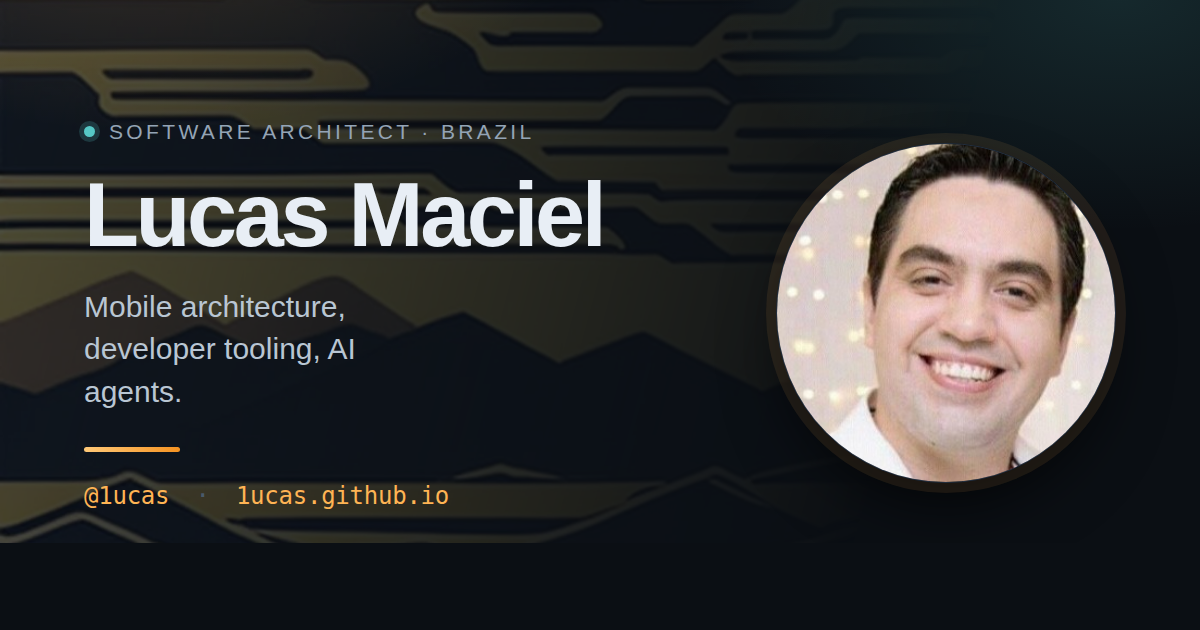
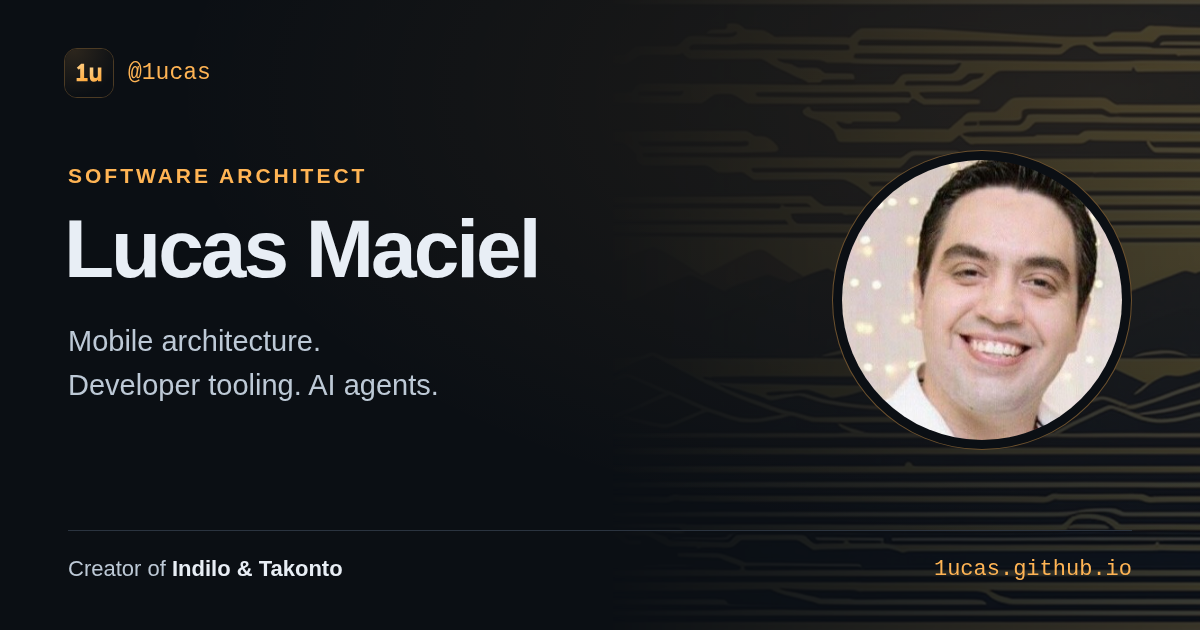
Improve share previews and iPhone Home Screen identity

diff --git a/index.html b/index.html
@@ -6,23 +6,73 @@
   <meta name="viewport" content="width=device-width, initial-scale=1">
   <title>Lucas Maciel — Software Architect</title>
   <meta name="description"
-    content="Lucas Maciel (@1ucas) — Software Architect at Mobile West and creator of Indilo, available on the App Store, and Takonto, coming soon. Mobile architecture, developer tooling, and AI agents.">
+    content="Software Architect at Mobile West. Creator of Indilo and Takonto. Explore Lucas Maciel's work in mobile architecture, developer tooling, and AI agents.">
   <meta name="author" content="Lucas Maciel">
+  <meta name="application-name" content="Lucas Maciel">
+  <meta name="color-scheme" content="dark light">
   <meta name="theme-color" content="#0b0f14">
 
   <link rel="canonical" href="https://1ucas.github.io/">
-  <link rel="icon" href="assets/favicon.svg" type="image/svg+xml">
-  <link rel="apple-touch-icon" href="assets/avatar.png">
+  <link rel="icon" href="/favicon.ico" sizes="16x16 32x32 48x48">
+  <link rel="icon" href="/assets/favicon.svg?v=2" type="image/svg+xml">
+  <link rel="apple-touch-icon" sizes="180x180" href="/apple-touch-icon.png">
+  <link rel="manifest" href="/site.webmanifest">
+
+  <meta name="apple-mobile-web-app-title" content="Lucas Maciel">
+  <meta name="apple-mobile-web-app-capable" content="yes">
+  <meta name="apple-mobile-web-app-status-bar-style" content="default">
+  <meta name="mobile-web-app-capable" content="yes">
 
   <meta property="og:type" content="profile">
+  <meta property="og:site_name" content="Lucas Maciel">
+  <meta property="og:locale" content="en_US">
   <meta property="og:title" content="Lucas Maciel — Software Architect">
   <meta property="og:description"
-    content="Creator of Indilo, available on the App Store, and Takonto, coming soon. Mobile architecture, developer tooling, and AI agents.">
+    content="Software Architect at Mobile West. Creator of Indilo and Takonto. Mobile architecture, developer tooling, and AI agents.">
   <meta property="og:url" content="https://1ucas.github.io/">
-  <meta property="og:image" content="https://1ucas.github.io/assets/og.png">
+  <meta property="og:image" content="https://1ucas.github.io/assets/og.png?v=2">
+  <meta property="og:image:type" content="image/png">
   <meta property="og:image:width" content="1200">
   <meta property="og:image:height" content="630">
+  <meta property="og:image:alt" content="Lucas Maciel, Software Architect. Mobile architecture, developer tooling, and AI agents. Creator of Indilo and Takonto.">
+  <meta property="profile:first_name" content="Lucas">
+  <meta property="profile:last_name" content="Maciel">
+  <meta property="profile:username" content="1ucas">
+
   <meta name="twitter:card" content="summary_large_image">
+  <meta name="twitter:title" content="Lucas Maciel — Software Architect">
+  <meta name="twitter:description"
+    content="Software Architect at Mobile West. Creator of Indilo and Takonto. Mobile architecture, developer tooling, and AI agents.">
+  <meta name="twitter:image" content="https://1ucas.github.io/assets/og.png?v=2">
+  <meta name="twitter:image:alt" content="Lucas Maciel, Software Architect. Mobile architecture, developer tooling, and AI agents. Creator of Indilo and Takonto.">
+
+  <script type="application/ld+json">
+    {
+      "@context": "https://schema.org",
+      "@type": "ProfilePage",
+      "@id": "https://1ucas.github.io/#profile",
+      "url": "https://1ucas.github.io/",
+      "name": "Lucas Maciel — Software Architect",
+      "mainEntity": {
+        "@type": "Person",
+        "@id": "https://1ucas.github.io/#lucas",
+        "name": "Lucas Maciel",
+        "alternateName": "1ucas",
+        "url": "https://1ucas.github.io/",
+        "image": "https://1ucas.github.io/assets/avatar.png",
+        "jobTitle": "Software Architect",
+        "worksFor": {
+          "@type": "Organization",
+          "name": "Mobile West",
+          "url": "https://www.mobilewest.com.br"
+        },
+        "sameAs": [
+          "https://github.com/1ucas",
+          "https://www.linkedin.com/in/lucas-ramos-maciel/"
+        ]
+      }
+    }
+  </script>
 
   <link rel="stylesheet" href="assets/styles.css?v=530bf6c43335">
 
@@ -35,6 +85,7 @@
         : window.matchMedia("(prefers-color-scheme: light)").matches;
       document.documentElement.dataset.theme = light ? "light" : "dark";
       document.documentElement.style.colorScheme = light ? "light" : "dark";
+      document.querySelector('meta[name="theme-color"]').content = light ? "#fbf8f3" : "#0b0f14";
     })();
   </script>
 </head>

diff --git a/assets/share-card.html b/assets/share-card.html
@@ -1,0 +1,37 @@
+<!doctype html>
+<html lang="en">
+<head>
+  <meta charset="utf-8">
+  <meta name="robots" content="noindex">
+  <title>Share card artwork — Lucas Maciel</title>
+  <style>
+    * { box-sizing: border-box; }
+    html, body { width: 1200px; height: 630px; margin: 0; overflow: hidden; }
+    body { position: relative; background: #0b0f14; color: #e8eef5; font-family: "Liberation Sans", Arial, sans-serif; }
+    .art { position: absolute; inset: 0 0 0 50%; background: url("art/hero.webp") 52% 50% / cover; opacity: .19; mask-image: linear-gradient(90deg, transparent, #000); }
+    .glow { position: absolute; inset: 0; background: radial-gradient(ellipse at 92% 15%, #ffb45418, transparent 60%); }
+    .top { position: absolute; inset: 48px 64px auto; display: flex; align-items: center; gap: 14px; }
+    .mark { width: 50px; height: 50px; border: 1px solid #ffb45444; border-radius: 13px; }
+    .handle { color: #ffb454; font: 23px "Liberation Mono", monospace; }
+    .role { position: absolute; top: 164px; left: 68px; margin: 0; color: #ffb454; font-size: 21px; font-weight: 700; letter-spacing: 3px; text-transform: uppercase; }
+    h1 { position: absolute; top: 204px; left: 64px; margin: 0; font-size: 82px; line-height: 1.1; letter-spacing: -3px; }
+    .craft { position: absolute; top: 320px; left: 68px; margin: 0; color: #bdc9d6; font-size: 29px; line-height: 1.5; }
+    .portrait { position: absolute; top: 150px; right: 68px; width: 300px; height: 300px; padding: 9px; border: 1px solid #ffb45466; border-radius: 50%; background: #0b0f14; }
+    .portrait img { width: 100%; height: 100%; border-radius: 50%; object-fit: cover; }
+    .footer { position: absolute; inset: auto 68px 48px; border-top: 1px solid #2b3440; padding-top: 25px; display: flex; justify-content: space-between; align-items: center; }
+    .projects { font-size: 22px; color: #bdc9d6; }
+    .projects strong { color: #e8eef5; font-weight: 600; }
+    .url { color: #ffb454; font: 22px "Liberation Mono", monospace; }
+  </style>
+</head>
+<body>
+  <div class="art"></div>
+  <div class="glow"></div>
+  <div class="top"><img class="mark" src="icon.svg" alt=""><span class="handle">@1ucas</span></div>
+  <p class="role">Software Architect</p>
+  <h1>Lucas Maciel</h1>
+  <p class="craft">Mobile architecture.<br>Developer tooling. AI agents.</p>
+  <div class="portrait"><img src="avatar.png" alt="Lucas Maciel"></div>
+  <div class="footer"><span class="projects">Creator of <strong>Indilo &amp; Takonto</strong></span><span class="url">1ucas.github.io</span></div>
+</body>
+</html>

diff --git a/404.html b/404.html
@@ -7,7 +7,10 @@
   <title>Not found — Lucas Maciel</title>
   <meta name="robots" content="noindex">
   <meta name="theme-color" content="#0b0f14">
-  <link rel="icon" href="/assets/favicon.svg" type="image/svg+xml">
+  <meta name="color-scheme" content="dark light">
+  <link rel="icon" href="/favicon.ico" sizes="16x16 32x32 48x48">
+  <link rel="icon" href="/assets/favicon.svg?v=2" type="image/svg+xml">
+  <link rel="apple-touch-icon" sizes="180x180" href="/apple-touch-icon.png">
   <link rel="stylesheet" href="/assets/styles.css?v=530bf6c43335">
   <script>
     (function () {
@@ -17,6 +20,7 @@
         : window.matchMedia("(prefers-color-scheme: light)").matches;
       document.documentElement.dataset.theme = light ? "light" : "dark";
       document.documentElement.style.colorScheme = light ? "light" : "dark";
+      document.querySelector('meta[name="theme-color"]').content = light ? "#fbf8f3" : "#0b0f14";
     })();
   </script>
   <style>

diff --git a/README.md b/README.md
@@ -10,6 +10,9 @@ by GitHub Pages.
 ```
 index.html                    the page
 404.html                      not-found page
+site.webmanifest              Home Screen name, launch URL, and display mode
+apple-touch-icon.png          opaque 180×180 iPhone Home Screen icon
+favicon.ico                   16/32/48px browser fallback
 assets/
   styles.css                  design tokens + layout
   main.js                     theme switch, EN/PT-BR switch, contribution chart
@@ -18,7 +21,10 @@ assets/
   icons/                      original project logos and favicons for the cards
   horizon.webp                sunset band behind the contact section
   og.png                      social share card (1200×630)
-  favicon.svg
+  share-card.html             editable source for the share card
+  icon.svg                    full-bleed source for the amber 1u mark
+  icon-192.png, icon-512.png   regular and maskable manifest icons
+  favicon.svg                 rounded browser version of the same mark
   art/                        generated artwork
     hero.webp                 backdrop behind the hero
     chord|build|study|        one strip per featured project
@@ -26,6 +32,7 @@ assets/
     lost.webp                 404 backdrop
 robots.txt, sitemap.xml
 .nojekyll                     serve the files as-is, no Jekyll build
+scripts/generate-brand-assets.cjs  optional artwork export tool
 ```
 
 `.nojekyll` tells GitHub Pages to publish the directory exactly as committed
@@ -66,6 +73,30 @@ so re-theming the accent re-themes the chart for free.
 Both HTML pages version the stylesheet URL with the first 12 characters of its
 SHA-256 hash. Whenever `styles.css` changes, update `?v=` in `index.html` and
 `404.html` so a cached stylesheet cannot leave new markup without its styles.
+
+## Sharing and iPhone Home Screen
+
+Open Graph and Twitter cards share the same title, description, and 1200×630 PNG,
+with image dimensions and accessible image descriptions. Profile metadata and
+`ProfilePage`/`Person` structured data identify the author and his public profiles.
+The image URL is versioned; bump its `?v=` in both tags when exporting new artwork
+so sharing services can request a fresh image. Services may still cache the page.
+
+The amber `1u` mark is used for favicons and Home Screen icons. The Apple icon is
+an opaque, square 180×180 PNG; iOS supplies its rounded mask. The manifest's
+192×192 and 512×512 PNGs keep the mark inside the maskable safe circle and use
+the same full-bleed background.
+
+On iPhone, open the site in Safari, choose **Share → Add to Home Screen**, leave
+the name as **Lucas Maciel**, and tap **Add**. If shown, keep **Open as Web App**
+enabled. The manifest launches `/` in standalone mode. This is an online
+portfolio; there is no service worker or offline caching.
+
+The optional artwork exporter uses Node.js with `sharp` and `playwright`, plus
+Chromium (set `CHROMIUM_PATH` if needed). Run `node scripts/generate-brand-assets.cjs`
+after editing `assets/icon.svg` or `assets/share-card.html`, then commit the
+generated files. The card uses Liberation Sans/Mono when installed, with Arial
+and monospace fallbacks. Publishing still serves the committed assets directly.
 
 ## The artwork
 
